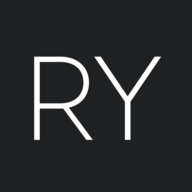
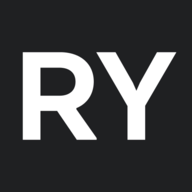
favion update

Changed region(s): [[0.0938, 0.25, 0.5, 0.75], [0.4688, 0.25, 0.9375, 0.75]]

diff --git a/src/about.html b/src/about.html
@@ -19,6 +19,7 @@
   <link rel="icon" type="image/png" sizes="16x16" href="${require(`./assets/image/favicon-16x16.png`)}" />
   <link rel="mask-icon" href="${require(`./assets/image/safari-pinned-tab.svg`)}" color="#1e2022" />
   <link rel="shortcut icon" href="${require(`./assets/image/favicon.ico`)}" />
+  <link rel="shortcut icon" type="image/svg+xml" href="${require(`./assets/image/favicon.svg`)}" />
   <meta name="msapplication-TileColor" content="#1e2022" />
   <meta name="msapplication-config" content="${require(`./assets/image/browserconfig.xml`)}" />
   <meta name="theme-color" content="#1e2022" />

diff --git a/src/index.html b/src/index.html
@@ -19,6 +19,7 @@
   <link rel="icon" type="image/png" sizes="16x16" href="${require(`./assets/image/favicon-16x16.png`)}" />
   <link rel="mask-icon" href="${require(`./assets/image/safari-pinned-tab.svg`)}" color="#1e2022" />
   <link rel="shortcut icon" href="${require(`./assets/image/favicon.ico`)}" />
+  <link rel="shortcut icon" type="image/svg+xml" href="${require(`./assets/image/favicon.svg`)}" />
   <meta name="msapplication-TileColor" content="#1e2022" />
   <meta name="msapplication-config" content="${require(`./assets/image/browserconfig.xml`)}" />
   <meta name="theme-color" content="#1e2022" />

diff --git a/src/air-app.html b/src/air-app.html
@@ -19,6 +19,7 @@
   <link rel="icon" type="image/png" sizes="16x16" href="${require(`./assets/image/favicon-16x16.png`)}">
   <link rel="mask-icon" href="${require(`./assets/image/safari-pinned-tab.svg`)}" color="#1e2022">
   <link rel="shortcut icon" href="${require(`./assets/image/favicon.ico`)}">
+  <link rel="shortcut icon" type="image/svg+xml" href="${require(`./assets/image/favicon.svg`)}" />
   <meta name="msapplication-TileColor" content="#1e2022">
   <meta name="msapplication-config" content="${require(`./assets/image/browserconfig.xml`)}">
   <meta name="theme-color" content="#1e2022">

diff --git a/src/classtopbase-website.html b/src/classtopbase-website.html
@@ -19,6 +19,7 @@
   <link rel="icon" type="image/png" sizes="16x16" href="${require(`./assets/image/favicon-16x16.png`)}">
   <link rel="mask-icon" href="${require(`./assets/image/safari-pinned-tab.svg`)}" color="#1e2022">
   <link rel="shortcut icon" href="${require(`./assets/image/favicon.ico`)}">
+  <link rel="shortcut icon" type="image/svg+xml" href="${require(`./assets/image/favicon.svg`)}" />
   <meta name="msapplication-TileColor" content="#1e2022">
   <meta name="msapplication-config" content="${require(`./assets/image/browserconfig.xml`)}">
   <meta name="theme-color" content="#1e2022">

diff --git a/src/classtopbase.html b/src/classtopbase.html
@@ -19,6 +19,7 @@
   <link rel="icon" type="image/png" sizes="16x16" href="${require(`./assets/image/favicon-16x16.png`)}">
   <link rel="mask-icon" href="${require(`./assets/image/safari-pinned-tab.svg`)}" color="#1e2022">
   <link rel="shortcut icon" href="${require(`./assets/image/favicon.ico`)}">
+  <link rel="shortcut icon" type="image/svg+xml" href="${require(`./assets/image/favicon.svg`)}" />
   <meta name="msapplication-TileColor" content="#1e2022">
   <meta name="msapplication-config" content="${require(`./assets/image/browserconfig.xml`)}">
   <meta name="theme-color" content="#1e2022">
